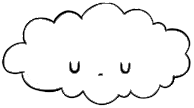
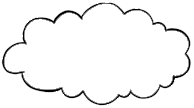
colors update

Changed region(s): [[0.3402, 0.5556, 0.433, 0.6944], [0.6186, 0.5556, 0.6804, 0.6944], [0.4948, 0.6667, 0.5567, 0.7222]]

diff --git a/src/home/Raincloud.js b/src/home/Raincloud.js
@@ -4,6 +4,7 @@ import { useLongPress } from 'use-long-press';
 import dropImg from '../assets/drop.png'
 import cloudGif from '../assets/cloud.gif'
 import cloudImg from '../assets/cloud.png'
+import darkCloudImg from '../assets/darkCloud.png'
 
 import flower0 from '../assets/flower/flower0.png'
 import flower1 from '../assets/flower/flower1.png'
@@ -53,6 +54,7 @@ function Rain({numDrops}) {
 
 export default function Raincloud({numDrops}){
   const [isRaining, setIsRaining] = useState(false);
+  const [darkCloud, setDarkCloud] = useState(false);
   const [flowerIdx, setFlowerIdx] = useState(-1);
 
   const flowers = [flower0, flower1, flower2, flower3, flower4, flower5]
@@ -78,17 +80,24 @@ export default function Raincloud({numDrops}){
     }
   );
 
+  const toggleDarkCloud = (b) => {
+    setTimeout(() => {
+      setDarkCloud(b)
+    }, 100)
+  }
+
   return (
     <div id="raincloud">
       <div 
         id="cloud" 
         {...bindCloudPressed()}
-        onClick={() => {}}
+        onMouseEnter={() => toggleDarkCloud(true)}
+        onMouseLeave={() => toggleDarkCloud(false)}
       >
         {isRaining ? <Rain numDrops={numDrops}/> : <></>}
         {
-          isRaining 
-          ? <img id="cloud-gif" alt="a little cloud gif" src={cloudGif} draggable={false}/>
+          isRaining ? <img id="cloud-gif" alt="a little cloud gif" src={cloudGif} draggable={false}/>
+          : darkCloud ? <img id="cloud-img" alt="a little cloud" src={darkCloudImg} draggable={false}/>
           : <img id="cloud-img" alt="a little cloud" src={cloudImg} draggable={false}/>
         }
       </div>

diff --git a/src/styles/home.css b/src/styles/home.css
@@ -55,6 +55,7 @@ div#app-base {
 .link-home {
   color: black; /* no blue link text */
   text-decoration: none; /* no underlined link text */
+  transition: all 0.2s ease-in-out;
 }
 
 a.link-home:hover {

diff --git a/src/styles/projects.css b/src/styles/projects.css
@@ -11,6 +11,7 @@
   color: black; /* no blue link text */
   text-decoration: none; /* no underlined link text */
   z-index: 1;
+  transition: all 0.2s ease-in-out;
 }
 
 a.link-proj:hover {
